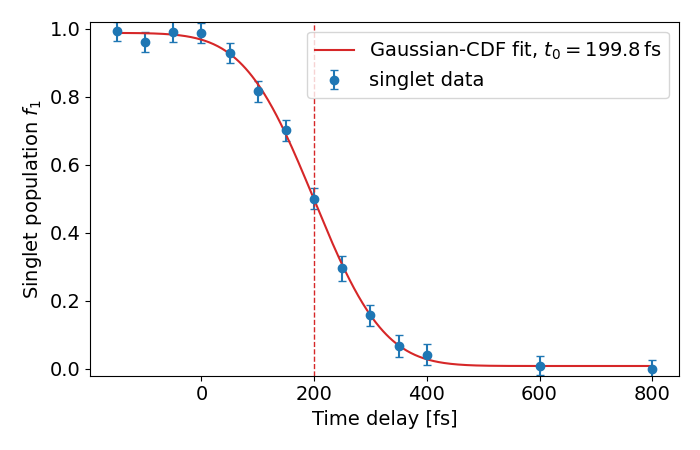
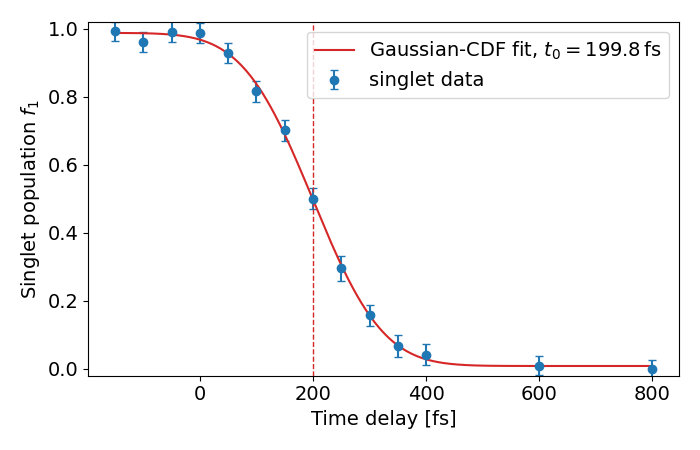
ausfräumen

diff --git a/P6/Auswertung EXP21/fit/actual fit/fit_v8.py b/P6/Auswertung EXP21/fit/actual fit/fit_v8.py
@@ -104,7 +104,7 @@ def build_deltaI_matrix_from_folders(
 def fit_difference_spectrum(energy, difference, sigma, reference_spectra, fixed_amplitude=None):
     """Fit S1 through S5 with L_off = S1.
     D(E) = A * (L_on(E) - L_off(E)) with
-    L_on = f_5 S_5 + f_4 S_4 + f_3 S_3 + f_2 S_2 + (1 - f_5 - f_4 - f_3 - f_2) S_1 and L_off = S_1.
+    L_on = f_5 S_5 + f_4 S_4 + f_3 S_3 + f_2 S_2 + (1 - f_5 - f_4 - f_3 - f_2) S_1
     """
     ground_state = reference_spectra[:, 0]
 
@@ -190,12 +190,11 @@ def estimate_population_uncertainties(result, difference, sigma, reference_spect
 
 def fit_singlet_transition(time_fs, singlet_population, singlet_uncertainty):
     """
-    Fit a falling Gaussian-CDF edge and return t0 and its width.
-
+    Fit a falling Gaussian-CDF edge and return t0 and its width (CDF: cumulative distribution function)
+    f(t)= f_after + 0.5 * ∆f * erf((t - t_0)/(sigma_time * sqrt(2)))
     t0 is the midpoint of the population drop. 
-    sigma_time is the standard deviation of the Gaussian temporal response, not the FWHM.
+    sigma_time is the standard deviation of the Gaussian temporal response (not the FWHM)
     """
-
     time_fs = np.asarray(time_fs, dtype=float)
     singlet_population = np.asarray(singlet_population, dtype=float)
     singlet_uncertainty = np.asarray(singlet_uncertainty, dtype=float)
@@ -248,13 +247,11 @@ sigma_fit = sigma[:, valid]
 reference_fit = reference_spectra[valid]
 
 # A wird einmal aus der 800-fs-Messung bestimmt und danach festgehalten.
-# Fuer 100 ps muesste dieser Wert auf 100_000 gesetzt werden und der
-# entsprechende Messordner in delays/delay_names vorhanden sein.
+# Für 100 ps müsste dieser Wert auf 100_000 gesetzt werden und der entsprechende Messordner in delays/delay_names vorhanden sein.
 calibration_delay_fs = 800
 calibration_indices = np.flatnonzero(t_fs == calibration_delay_fs)
 calibration_index = calibration_indices[0]
-(
-    calibration_amplitude,
+(   calibration_amplitude,
     calibration_amplitude_uncertainty,
     calibration_formal_uncertainty,
     calibration_reduced_chi2,
@@ -267,9 +264,9 @@ print(
     f"Kalibrierung bei {calibration_delay_fs:g} fs als reines Quintett: "
     f"A = {calibration_amplitude:.5g} +/- {calibration_amplitude_uncertainty:.3g} "
     f"(formal: {calibration_formal_uncertainty:.3g}, "
-    f"reduced chi2: {calibration_reduced_chi2:.3g})"
-)
+    f"reduced chi2: {calibration_reduced_chi2:.3g})")
 
+# jtz ist kein prep mehr
 amplitudes = []
 populations = []
 population_uncertainties = []
@@ -300,9 +297,9 @@ amplitudes = np.array(amplitudes)
 populations = np.array(populations)
 population_uncertainties = np.array(population_uncertainties)
 fitted_spectra = np.array(fitted_spectra)
-
 normalized_residuals = (dI_fit - fitted_spectra) / sigma_fit
 
+# plot
 state_names = ["singlet", "doublet", "triplet", "quartet", "quintet"]
 
 plt.figure(figsize=(7, 4.5))
@@ -316,19 +313,15 @@ for index, state_name in enumerate(state_names):
         label=state_name,
     )
 plt.xlabel("Time delay [fs]")
-plt.ylabel("Population $a_M$")
+plt.ylabel("Population $f_s$")
 plt.ylim(-0.02, 1.02)
 plt.legend()
 plt.tight_layout()
 plt.savefig("Auswertung EXP21/fit/actual fit/population_fit.png")
-plt.show()
+#plt.show()
 
-# t0 aus dem Abfall der Singulettpopulation bestimmen.
-singlet_model, singlet_fit_parameters, singlet_fit_uncertainties = fit_singlet_transition(
-    t_fs,
-    populations[:, 0],
-    population_uncertainties[:, 0],
-)
+# t0 aus dem Abfall der Singulettpopulation bestimmen
+singlet_model, singlet_fit_parameters, singlet_fit_uncertainties = fit_singlet_transition(t_fs, populations[:, 0], population_uncertainties[:, 0])
 population_after, population_drop, t0_fs, sigma_time_fs = singlet_fit_parameters
 t0_uncertainty_fs = singlet_fit_uncertainties[2]
 sigma_time_uncertainty_fs = singlet_fit_uncertainties[3]
@@ -364,4 +357,4 @@ plt.ylim(-0.02, 1.02)
 plt.legend()
 plt.tight_layout()
 plt.savefig("Auswertung EXP21/fit/actual fit/singlet_transition_fit.png")
-plt.show()
+#plt.show()
